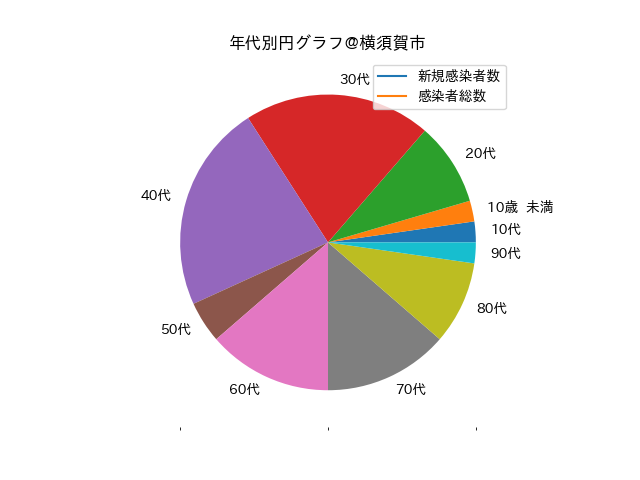
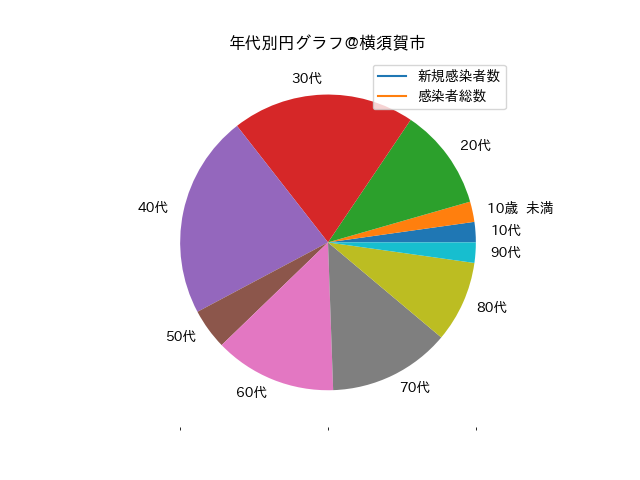
update

diff --git a/make_chart.py b/make_chart.py
@@ -23,7 +23,7 @@ def get_datelist():
     return full_date
 
 def line_chart(lst):
-    df = lst[0].sort_values('患者確定日')
+    df = lst[1].sort_values('患者確定日')
     trans_table = str.maketrans('１２３４５６７８９０', '1234567890')
 
     for idx, row in df.iterrows():
@@ -56,7 +56,7 @@ def line_chart(lst):
     fig.savefig('chart_of_covid19_in_yokosuka.png')
 
 def pie_chart_age(lst):
-    df = lst[0]
+    df = lst[1].sort_values('患者確定日')
     filtered_df=df.query('年代 != "-"')
     grouped_se = filtered_df.groupby('年代').size()
     print(type(grouped_se))
